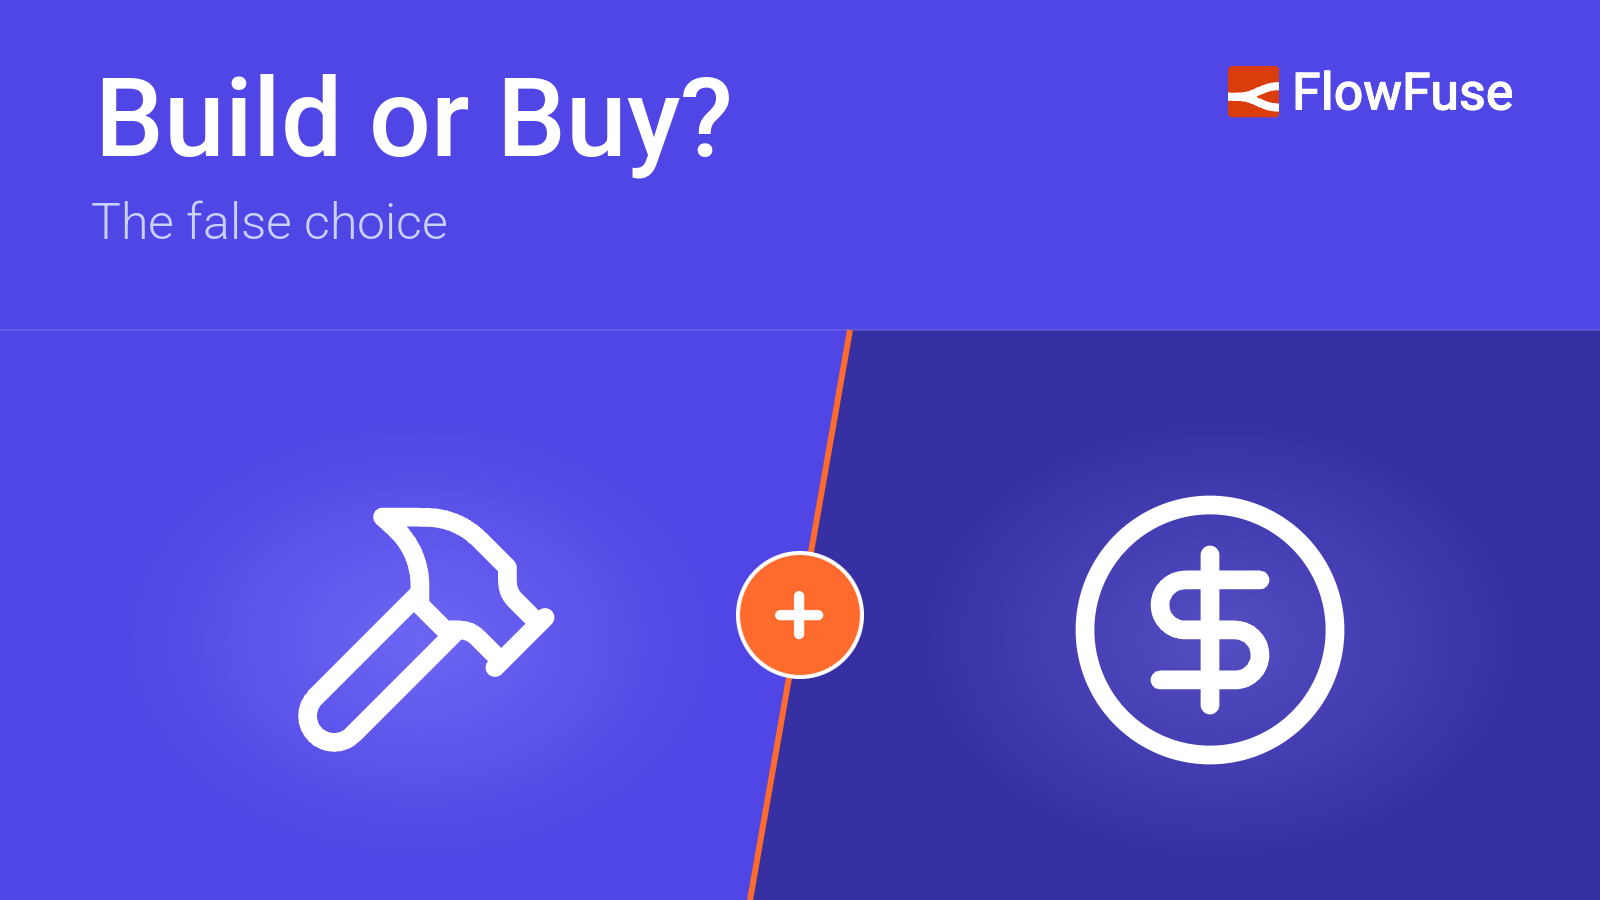
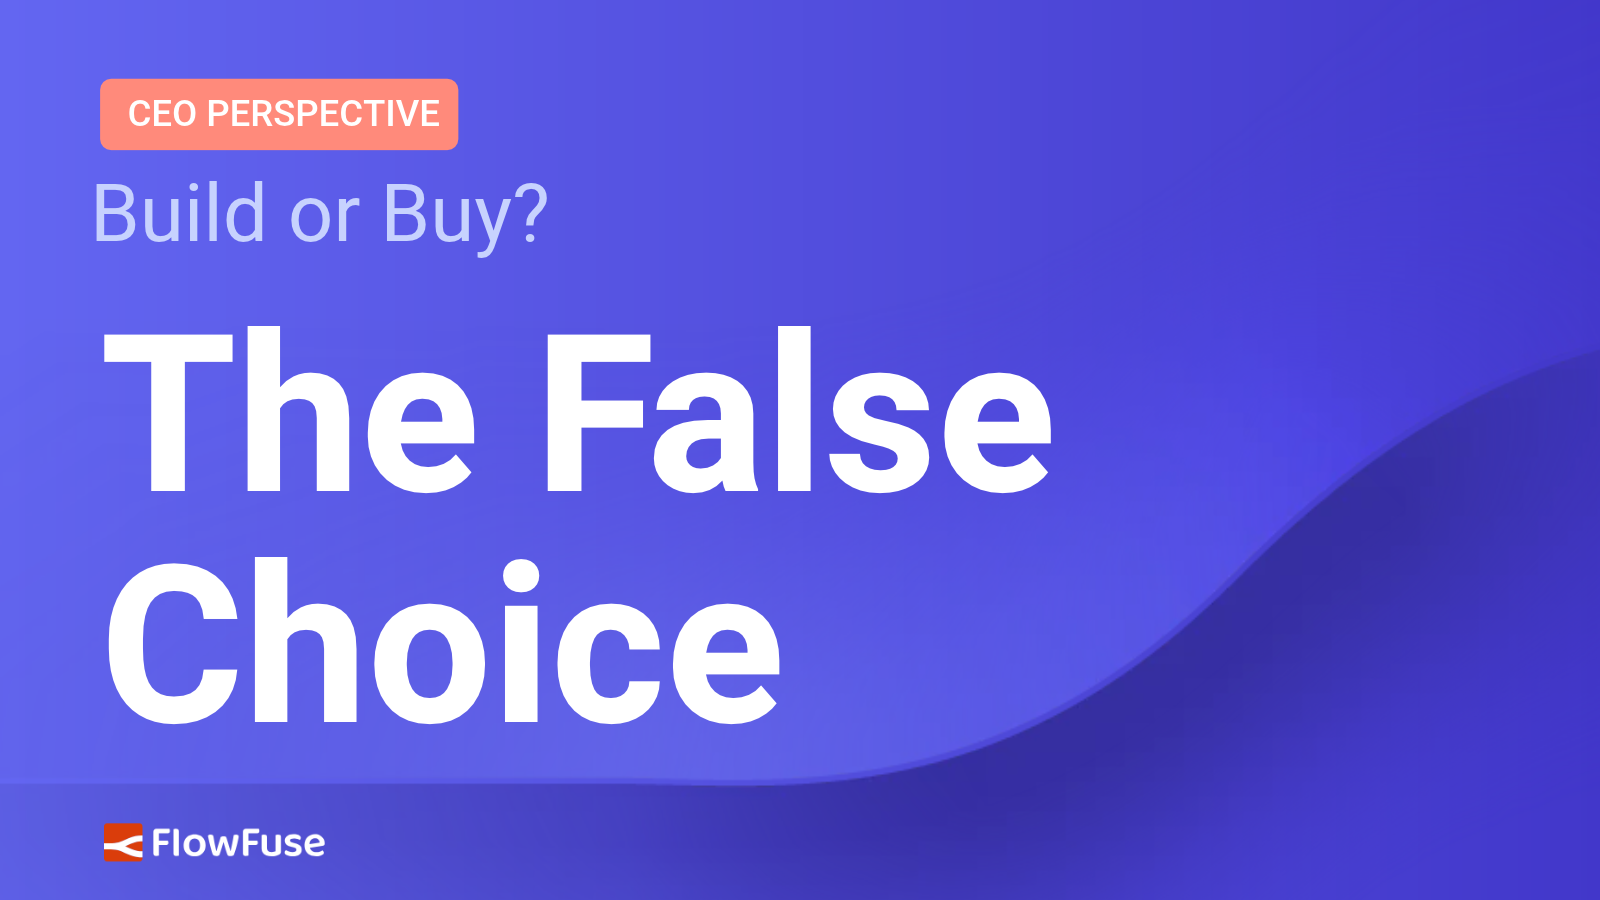
Build or buy post: new hero image and date

diff --git a/nuxt/content/blog/2026/11/build-or-buy.md b/nuxt/content/blog/2026/11/build-or-buy.md
@@ -3,7 +3,7 @@ title: 'Build or Buy? The False Choice'
 subtitle: What to standardize and where local fit matters
 description: Build or buy? FlowFuse CEO Michael Davis on why most manufacturers already do both, and how to decide what to standardize across sites and where local fit matters.
 metaTitle: "Build or Buy in Manufacturing: The False Choice"
-date: '2026-11-23'
+date: '2026-11-24'
 authors:
   - michael-davis
 image: /blog/2026/11/images/build-vs-buy.png
